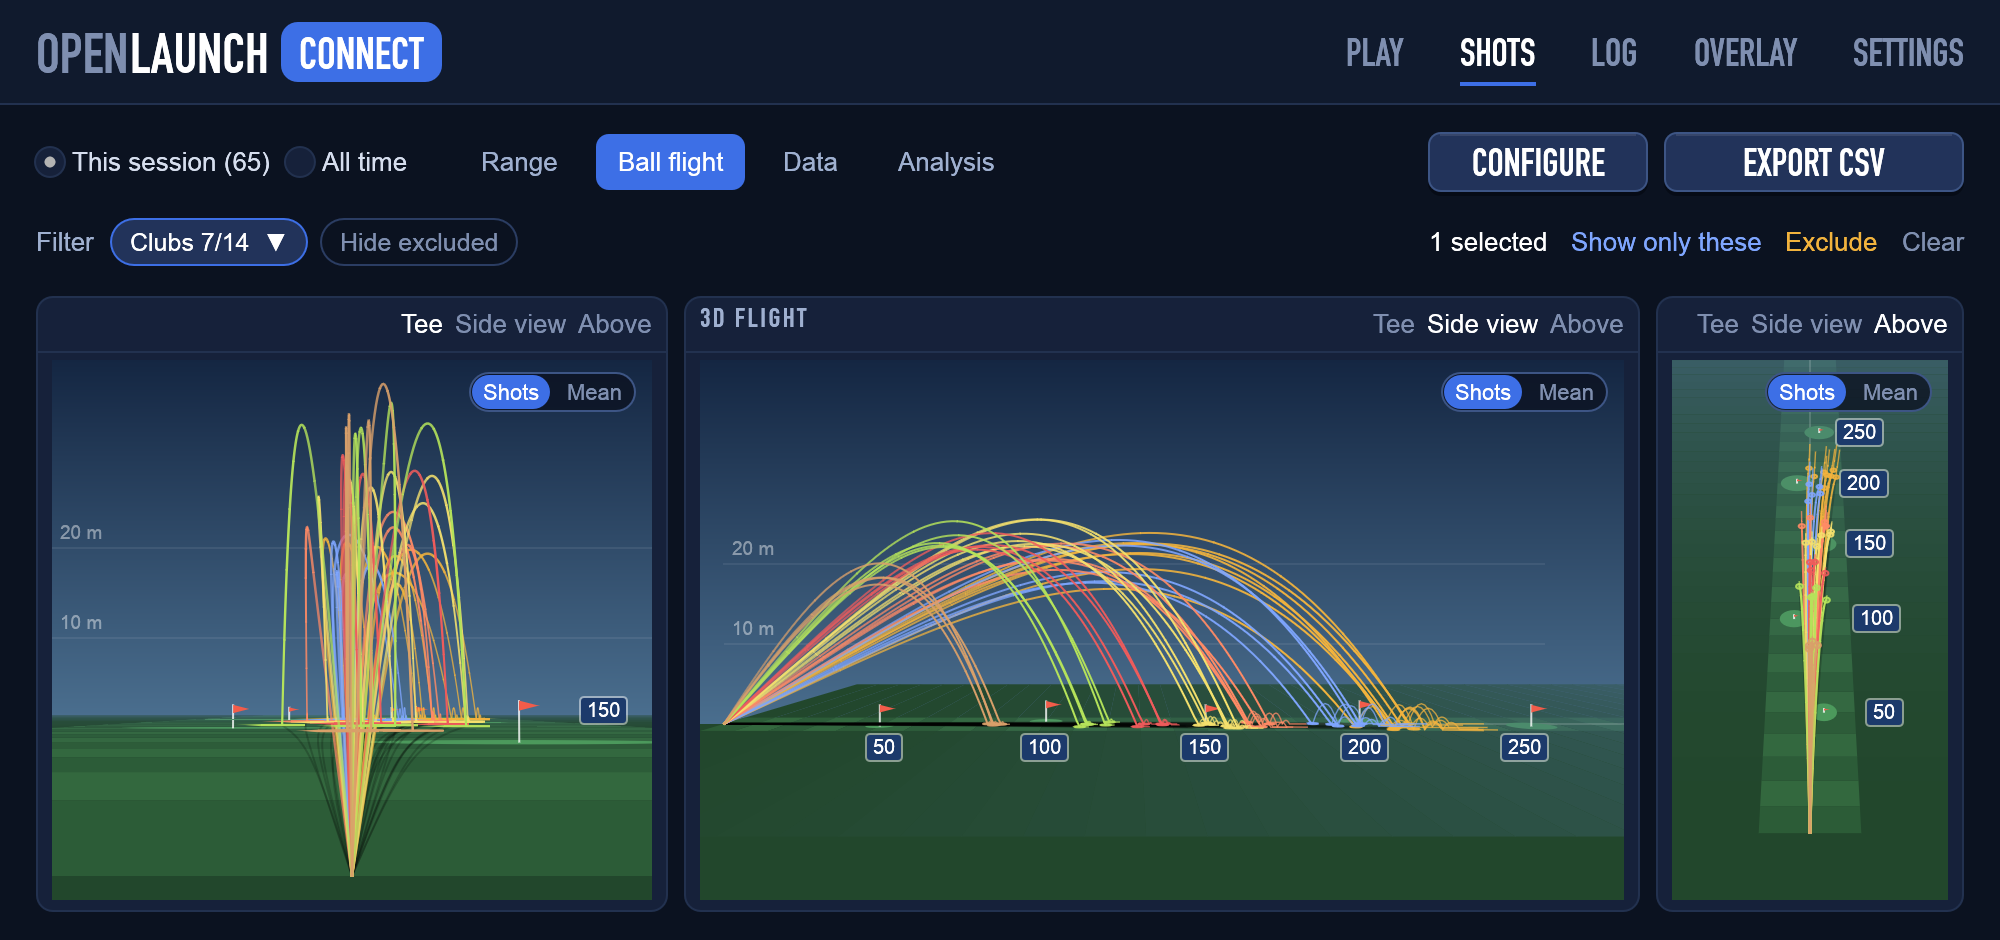
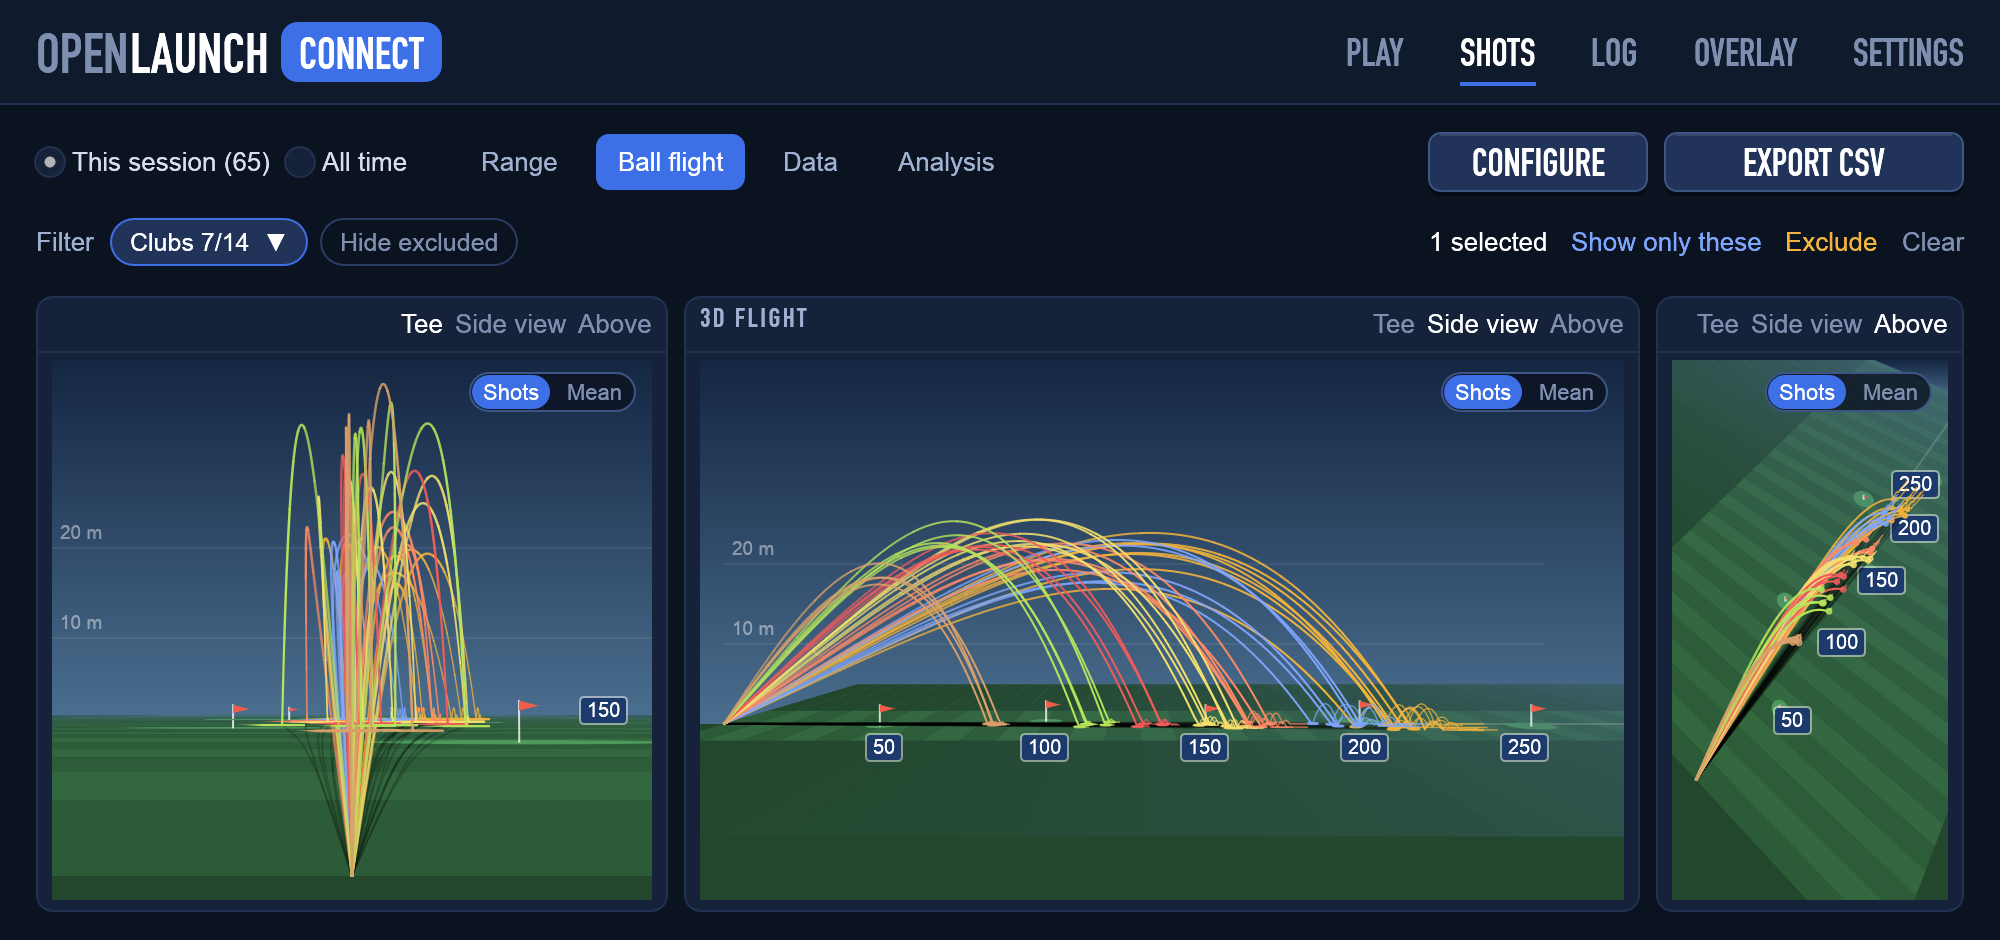
3D flight: diagonal view from the top right over a full-width range
"Above" looks 45° from above, turned 35° (tall tiles) to 65° (wide tiles)
from behind to the right, fitted to the flights; the range is as wide as a
real one there and the mown area spans the whole range width.

diff --git a/src/bin/openlaunch-connect/flight3d.rs b/src/bin/openlaunch-connect/flight3d.rs
@@ -124,27 +124,27 @@ pub(super) fn flight_view(ui: &mut egui::Ui, i: usize, tile: &Tile, ctx: &TileCt
     let far = ctx.paths.iter().map(|p| p.rest[2].max(p.air.last().map_or(0.0, |q| q[2]))).fold(100.0_f32, f32::max) * 1.08;
     let apex = ctx.paths.iter().flat_map(|p| p.air.iter().map(|q| q[1])).fold(10.0_f32, f32::max);
     let half = ctx.paths.iter().map(|p| p.rest[0].abs()).fold(15.0_f32, f32::max).max(far * 0.12).min(60.0) * 1.3;
-    let wide = rect.width() >= rect.height();
+    // Diagonally from above the range is as wide as a real one, so it covers the whole tile.
+    let half = if camera == Camera::Above { half.max(far * 0.45) } else { half };
     let view = match camera {
         Camera::Tee => View::new([0.0, 2.0, -12.0], [0.0, apex * 0.35, far * 0.6]),
         // From the right of the range, so the distance grows to the right.
         Camera::Side => View::new([far * 1.3, apex * 0.6, far * 0.5], [0.0, apex * 0.4, far * 0.5]),
         // Steeply from above onto where the balls land (the tee may be out of view).
-        // 45° from above, so the spread can be seen: in a wide tile from the side (the range
-        // runs across), in a tall one from behind (it runs up the tile).
+        // Diagonally from the top right: 45° above the range, turned from behind to the right –
+        // 35° in a tall tile up to 65° in a wide one, so the flights run along the tile.
         Camera::Above => {
-            let (zc, dist, el) = (far * 0.5, far * 1.3, 45_f32.to_radians());
-            if wide {
-                View::new([dist * el.cos(), dist * el.sin(), zc], [0.0, 0.0, zc])
-            } else {
-                View::new([0.0, dist * el.sin(), zc - dist * el.cos()], [0.0, 0.0, zc])
-            }
+            let aspect = rect.width() / rect.height().max(1.0);
+            let turn = 35.0 + 30.0 * ((aspect - 0.6) / 1.4).clamp(0.0, 1.0);
+            let (zc, dist, el, az) = (far * 0.5, far * 1.2, 45_f32.to_radians(), turn.to_radians());
+            View::new([dist * el.cos() * az.sin(), dist * el.sin(), zc - dist * el.cos() * az.cos()], [0.0, 0.0, zc])
         }
     };
     let mut fit: Vec<egui::Vec2> = Vec::new();
     if camera == Camera::Above {
-        // The range from the tee to beyond the longest shot fills the tile.
-        fit.extend([[-half, 0.0, 0.0], [half, 0.0, 0.0], [-half, 0.0, far], [half, 0.0, far]].iter().filter_map(|q| view.project(*q)));
+        // The flights from the tee to where they stop fill the tile; the range runs on beyond.
+        fit.extend(ctx.paths.iter().flat_map(|p| p.air.iter().chain([&p.rest])).filter_map(|q| view.project(*q)));
+        fit.extend([[0.0, 0.0, 0.0], [0.0, 0.0, far / 1.08]].iter().filter_map(|q| view.project(*q)));
     } else {
         // The flights and the range; the near corners would be right below the camera.
         fit.extend(ctx.paths.iter().flat_map(|p| p.air.iter().chain([&p.rest])).filter_map(|q| view.project(*q)));
@@ -160,8 +160,7 @@ pub(super) fn flight_view(ui: &mut egui::Ui, i: usize, tile: &Tile, ctx: &TileCt
         Camera::Side => (1.0, 2.5),
         // From above the range may get a lot wider: the landing points spread out.
         // The range's width may stretch to fill the tile.
-        Camera::Above if wide => (1.0, 3.0),
-        Camera::Above => (3.0, 1.0),
+        Camera::Above => (1.4, 1.4),
     };
     let base = sx.min(sy);
     let scale = vec2(sx.min(base * kx), sy.min(base * ky));
@@ -410,7 +409,8 @@ fn draw_range(
     let mut k = 0;
     while z < end {
         band(-half * 4.0, half * 4.0, z, z + step, rough);
-        band(-half * 0.45, half * 0.45, z, z + step, if k % 2 == 0 { fairway } else { stripe });
+        // The mown range is as wide as the range shown.
+        band(-half, half, z, z + step, if k % 2 == 0 { fairway } else { stripe });
         z += step;
         k += 1;
     }
@@ -465,7 +465,7 @@ fn draw_range(
         }
         let board_at = match camera {
             Camera::Side => to_screen([0.0, 0.0, dz]).map(|q| q + vec2(0.0, 12.0)),
-            Camera::Above => to_screen([half * 0.75, 0.0, dz]),
+            Camera::Above => to_screen([(far * 0.1).max(18.0), 0.0, dz]),
             Camera::Tee => to_screen([half * 0.55, 0.0, dz]).map(|q| q + vec2(0.0, -6.0)),
         };
         if let Some(at) = board_at.filter(|at| rect.contains(*at))

diff --git a/CHANGELOG.md b/CHANGELOG.md
@@ -8,11 +8,11 @@ The format is based on [Keep a Changelog](https://keepachangelog.com/en/1.1.0/),
 
 ### Changed
 - **3D flight tile** looks like a driving range now: sky with haze at the horizon, mown fairway, target greens with
-  flags and distance boards every 50 m (yd), height lines every 10 m. The flights cast shadows, fade in from the
-  tee and get thinner further away; each landing is marked with a ring, followed by its bounces and roll. A selected
+  flags and distance boards every 50 m (yd), height lines every 10 m. The flights cast shadows, fade in from the tee
+  and get thinner further away; each landing is marked with a ring, followed by its bounces and roll. A selected
   shot glows and shows its apex and carry. A switch *Shots / Mean* shows the single shots or one bold mean flight
-  per club. *Above* looks at 45° from above – from the side in a wide tile, from behind in a tall one – so the range
-  fills the tile; the tee view has height lines where the flights peak.
+  per club. *Above* looks diagonally from the top right at 45° (turned more to the side in wide tiles) onto a range
+  as wide as a real one, so it fills the tile; the tee view has height lines where the flights peak.
 
 ## [1.1.0] – 2026-10-21
 
